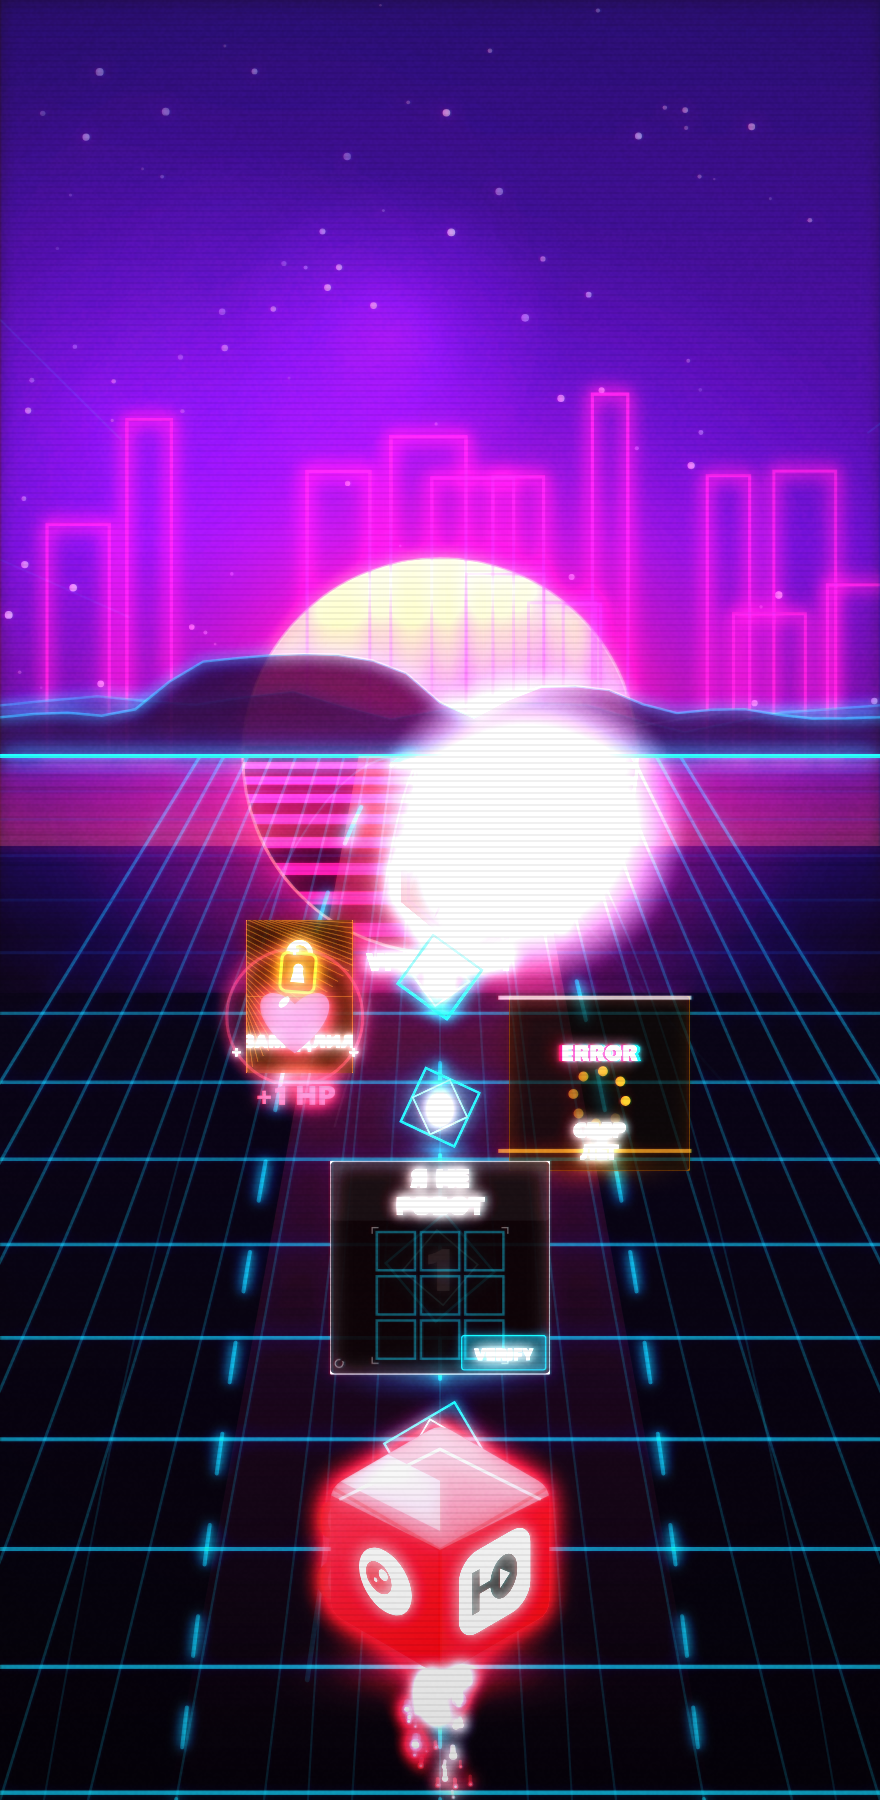
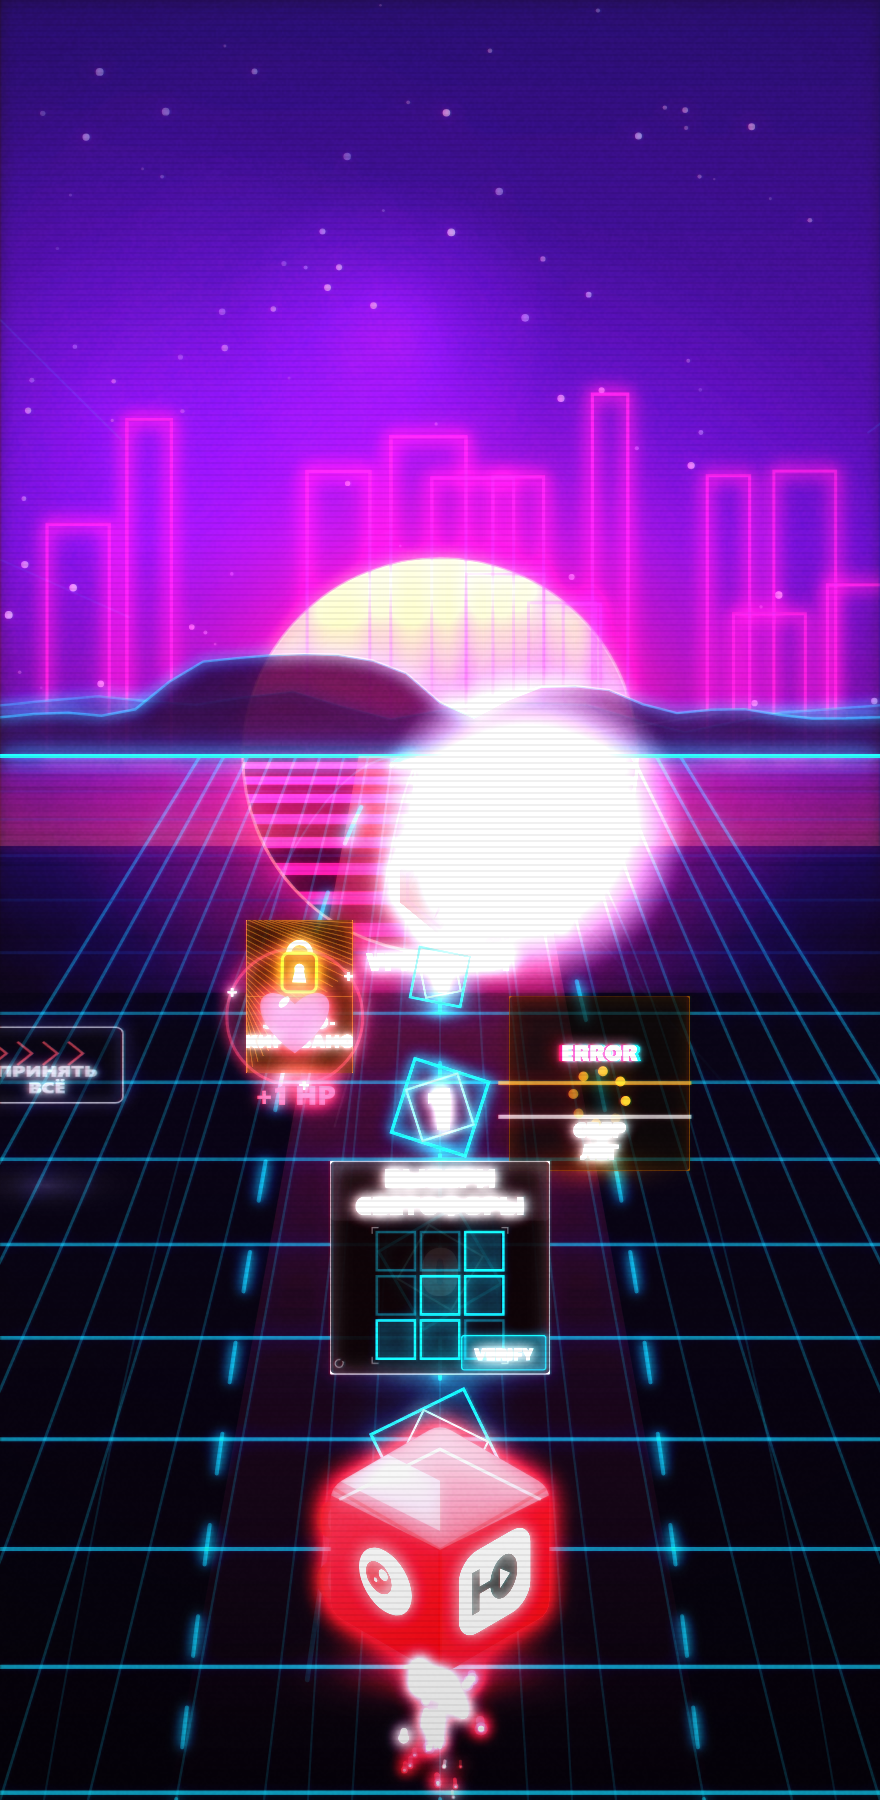
Add ambient side meme props

diff --git a/src/game/sideprops.js b/src/game/sideprops.js
@@ -1,0 +1,173 @@
+// Боковые мем-детали: декоративные пропсы на обочинах дороги.
+// Они не сталкиваются с игроком и не читаются как препятствия: ниже альфа,
+// дальше от трассы, меньше контраст, медленный спавн.
+import { CONFIG } from '../../config.js';
+import { floorGlow, neonRect, neonText, roundRectPath, FONT } from '../engine/render.js';
+import { bagPick } from '../ui/strings.js';
+
+const C = CONFIG.COLORS;
+
+const KINDS = [
+  { id: 'bags', label: 'ПАКЕТЫ', w: 1.05, h: 0.92, color: C.redBright },
+  { id: 'ticket', label: 'ТАЛОН\nА-404', w: 0.82, h: 1.08, color: C.warn },
+  { id: 'delivery', label: '99\nМИН', w: 1.15, h: 0.7, color: C.red },
+  { id: 'cookies', label: 'ПРИНЯТЬ\nВСЁ', w: 1.0, h: 0.8, color: C.white },
+  { id: 'portal', label: '30\nДНЕЙ', w: 0.92, h: 0.92, color: C.warnDeep },
+];
+
+class SideProp {
+  constructor(side, kind) {
+    this.side = side;
+    this.kind = kind;
+    this.laneNorm = side * (CONFIG.RUN.SHOULDER + 0.16 + Math.random() * 0.24);
+    this.z = 1.04 + Math.random() * 0.12;
+    this.dead = false;
+    this.phase = Math.random() * Math.PI * 2;
+  }
+
+  update(dt, speed) {
+    this.z -= speed * dt * CONFIG.RUN.Z_RATE * 0.62;
+    if (this.z < -0.08) this.dead = true;
+  }
+
+  draw(ctx, geom, t) {
+    const { x, y, scale, p } = geom.project(this.laneNorm, this.z);
+    if (scale <= 0.001) return;
+
+    const w = geom.unit * this.kind.w * scale;
+    const h = geom.unit * this.kind.h * scale;
+    const bob = Math.sin(t * 2.2 + this.phase) * geom.unit * 0.012 * scale;
+    const alpha = Math.min(0.72, 0.22 + p * 0.5);
+    const spr = propSprite(this.kind.id, this.kind.label, this.kind.color);
+
+    ctx.save();
+    ctx.globalAlpha = alpha;
+    floorGlow(ctx, x, y + h * 0.24, w * 0.5, this.kind.color, 0.12);
+    if (spr) ctx.drawImage(spr, x - w / 2, y - h + bob, w, h);
+    ctx.restore();
+  }
+}
+
+const spriteCache = new Map();
+const CACHE = 220;
+
+function propSprite(id, label, color) {
+  const key = id + '|' + label + '|' + color;
+  let cv = spriteCache.get(key);
+  if (!cv) {
+    cv = document.createElement('canvas');
+    cv.width = CACHE; cv.height = CACHE;
+    const ctx = cv.getContext('2d');
+    if (!ctx) return null;
+    ctx.clearRect(0, 0, CACHE, CACHE);
+    if (id === 'bags') drawBags(ctx, label, color);
+    else if (id === 'ticket') drawTicket(ctx, label, color);
+    else if (id === 'delivery') drawDelivery(ctx, label, color);
+    else if (id === 'cookies') drawCookies(ctx, label, color);
+    else drawPortal(ctx, label, color);
+    spriteCache.set(key, cv);
+  }
+  return cv;
+}
+
+function drawBags(ctx, label, color) {
+  ctx.save();
+  ctx.translate(28, 38);
+  for (let i = 0; i < 3; i++) {
+    const x = i * 38 + (i === 1 ? 12 : 0);
+    const y = i === 1 ? 8 : 34;
+    neonRect(ctx, x, y + 38, 52, 72, color, { fill: 'rgba(12,2,4,0.86)', glow: 12, radius: 5, lw: 2 });
+    ctx.strokeStyle = '#fff';
+    ctx.lineWidth = 3;
+    ctx.beginPath();
+    ctx.arc(x + 26, y + 40, 15, Math.PI, 0);
+    ctx.stroke();
+  }
+  neonText(ctx, label, 108, 150, { color: C.white, size: 24, weight: '900', glow: 6 });
+  ctx.restore();
+}
+
+function drawTicket(ctx, label, color) {
+  ctx.save();
+  neonRect(ctx, 58, 20, 104, 160, color, { fill: 'rgba(18,12,2,0.88)', glow: 14, radius: 8, lw: 2 });
+  ctx.fillStyle = 'rgba(255,255,255,0.08)';
+  for (let y = 44; y < 160; y += 24) ctx.fillRect(70, y, 80, 3);
+  neonText(ctx, label, 110, 106, { color: C.white, size: 26, weight: '900', glow: 6 });
+  ctx.strokeStyle = color;
+  ctx.lineWidth = 3;
+  ctx.beginPath();
+  ctx.moveTo(74, 28); ctx.lineTo(146, 28);
+  ctx.moveTo(74, 172); ctx.lineTo(146, 172);
+  ctx.stroke();
+  ctx.restore();
+}
+
+function drawDelivery(ctx, label, color) {
+  ctx.save();
+  neonRect(ctx, 24, 62, 172, 76, color, { fill: 'rgba(18,2,4,0.86)', glow: 14, radius: 8, lw: 2 });
+  ctx.fillStyle = color;
+  roundRectPath(ctx, 44, 44, 62, 34, 6);
+  ctx.fill();
+  ctx.strokeStyle = C.white;
+  ctx.lineWidth = 3;
+  ctx.beginPath();
+  ctx.moveTo(58, 78); ctx.lineTo(58, 62); ctx.lineTo(74, 62);
+  ctx.moveTo(88, 78); ctx.lineTo(88, 62); ctx.lineTo(74, 62);
+  ctx.stroke();
+  neonText(ctx, label, 128, 103, { color: C.white, size: 32, weight: '900', glow: 7 });
+  ctx.restore();
+}
+
+function drawCookies(ctx, label, color) {
+  ctx.save();
+  neonRect(ctx, 26, 52, 168, 104, color, { fill: 'rgba(8,6,14,0.88)', glow: 11, radius: 8, lw: 2 });
+  ctx.strokeStyle = C.redBright;
+  ctx.lineWidth = 3;
+  for (let i = 0; i < 4; i++) {
+    const x = 50 + i * 28;
+    ctx.beginPath();
+    ctx.moveTo(x, 72); ctx.lineTo(x + 16, 88); ctx.lineTo(x, 104);
+    ctx.stroke();
+  }
+  neonText(ctx, label, 110, 122, { color: C.white, size: 22, weight: '900', glow: 6 });
+  ctx.restore();
+}
+
+function drawPortal(ctx, label, color) {
+  ctx.save();
+  neonRect(ctx, 42, 36, 136, 128, color, { fill: 'rgba(14,8,2,0.86)', glow: 12, radius: 10, lw: 2 });
+  ctx.fillStyle = 'rgba(255,255,255,0.08)';
+  ctx.fillRect(58, 58, 104, 22);
+  ctx.fillRect(58, 90, 72, 12);
+  ctx.fillRect(58, 112, 88, 12);
+  ctx.font = `900 24px ${FONT}`;
+  neonText(ctx, label, 110, 136, { color: C.white, size: 30, weight: '900', glow: 6 });
+  ctx.restore();
+}
+
+export class SideProps {
+  constructor() {
+    this.items = [];
+    this.cd = 0.8;
+    this._pool = KINDS;
+  }
+
+  clear() {
+    this.items = [];
+    this.cd = 0.8;
+  }
+
+  update(dt, speed, canSpawn) {
+    for (const item of this.items) item.update(dt, speed);
+    this.items = this.items.filter((item) => !item.dead);
+    if (!canSpawn) return;
+
+    this.cd -= dt;
+    if (this.cd <= 0 && this.items.length < CONFIG.SIDE_PROP_MAX) {
+      const side = Math.random() > 0.5 ? 1 : -1;
+      const kind = bagPick(this._pool) || this._pool[0];
+      this.items.push(new SideProp(side, kind));
+      this.cd = CONFIG.SIDE_PROP_EVERY + Math.random() * CONFIG.SIDE_PROP_JITTER;
+    }
+  }
+}

diff --git a/src/main.js b/src/main.js
@@ -14,6 +14,7 @@ import { Obstacle, nextSafeLane, pickObstacleType } from './game/obstacles.js';
 import { DataBit, Heart } from './game/collectibles.js';
 import { Boost, Magnet, X2 } from './game/boosts.js';
 import { Billboards } from './game/billboards.js';
+import { SideProps } from './game/sideprops.js';
 import { Stats } from './game/stats.js';
 import { Progress, rollMissions, checkMissions } from './game/progress.js';
 import { Settings, loadFlag, saveFlag } from './game/settings.js';
@@ -68,6 +69,7 @@ progress.syncFromCloud(() => UI.showRank(STR.ranks[progress.data.rankId]));
 const audio = new Audio(loadFlag('muted', !CONFIG.AUDIO_DEFAULT_ON) ? false : CONFIG.AUDIO_DEFAULT_ON);
 const events = new EventManager();
 const billboards = new Billboards();
+const sideProps = new SideProps();
 const tutorial = new Tutorial();
 let lastTutorialStep = -1;
 
@@ -162,6 +164,7 @@ function startGame() {
   stats.reset(); player.reset();
   obstacles = []; boosts = []; pickups = []; databits = []; hearts = []; particles.clear();
   billboards.clear();
+  sideProps.clear();
   captchaGame = null;
   x2Timer = 0; magnetTimer = 0; currentZone = 0;
   distSinceCol = 0; colCount = 0; heartColCount = 0;
@@ -550,6 +553,7 @@ function frame(now) {
   } else if (state === 'play' || state === 'dying') {
     world.update(simDt, speed, stats.distance);
     billboards.update(simDt, speed, state === 'play');
+    sideProps.update(simDt, speed, state === 'play');
     stats.addDistance(speed, simDt);
     player.update(simDt, geom, particles, player.invuln > 0, speedFrac(speed));
 
@@ -650,6 +654,7 @@ function frame(now) {
   for (const b of boosts) drawables.push(b);
   for (const pk of pickups) drawables.push(pk);
   for (const o of obstacles) drawables.push(o);
+  for (const p of sideProps.items) drawables.push(p);
   for (const s of billboards.signs) drawables.push(s);
   drawables.sort((a, b) => b.z - a.z); // дальние (z→1) первыми
 

diff --git a/config.js b/config.js
@@ -161,6 +161,13 @@ export const CONFIG = {
   BILLBOARD_EVERY: 2.2,    // средний интервал между щитами (с)
   BILLBOARD_JITTER: 1.6,   // случайный разброс интервала (с)
 
+  // --- Боковые мем-детали ----------------------------------------------------
+  // Декор без геймплейного влияния: маленькие пропсы на обочинах, которые
+  // поддерживают рунет-сатиру, но не спорят с препятствиями и HUD.
+  SIDE_PROP_EVERY: 1.45,
+  SIDE_PROP_JITTER: 1.0,
+  SIDE_PROP_MAX: 4,
+
   // --- Очки ------------------------------------------------------------------
   SCORE_PER_METER: 0.7,
   SCORE_PER_DODGE: 10,
